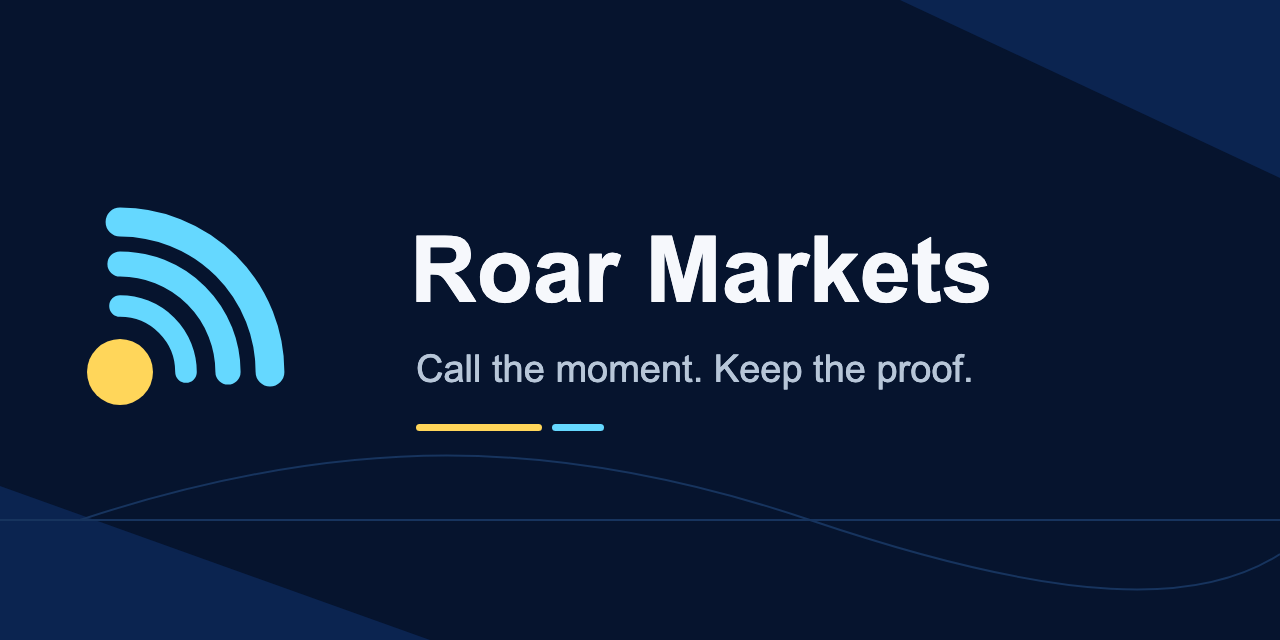
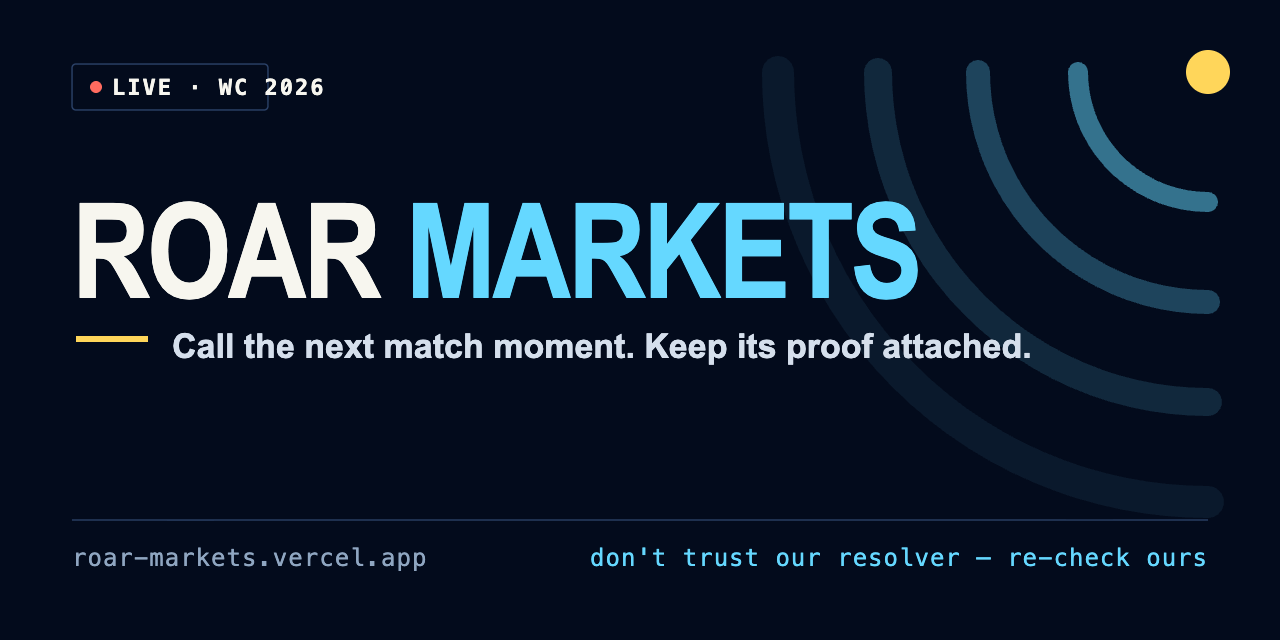
feat: site — head meta refresh (#030b1c), higher-detail social card, README hero

diff --git a/app/index.html b/app/index.html
@@ -3,24 +3,24 @@
   <head>
     <meta charset="UTF-8" />
     <meta name="viewport" content="width=device-width, initial-scale=1.0" />
-    <meta name="theme-color" content="#06142e" />
+    <meta name="theme-color" content="#030b1c" />
     <link rel="icon" type="image/svg+xml" href="/favicon.svg" />
-    <meta name="description" content="Roar Markets turns the next match moment into a fan call, then keeps the exact fixture and line attached to the result." />
+    <meta name="description" content="Roar Markets turns the next match moment into a fan call and keeps the result bound to the exact market, fixture and line — re-checkable in your browser, no wallet, no signup." />
     <meta property="og:type" content="website" />
-    <meta property="og:title" content="Roar Markets — call the moment, keep the proof" />
-    <meta property="og:description" content="Pick the next match moment and keep its fixture-and-line proof attached." />
+    <meta property="og:title" content="Roar Markets — call the next match moment. Keep its proof attached." />
+    <meta property="og:description" content="Quick yes-or-no fan calls whose result stays bound to the exact fixture and line. Don't trust our resolver — re-check ours." />
     <meta property="og:url" content="https://roar-markets.vercel.app/" />
     <meta property="og:image" content="https://roar-markets.vercel.app/roar-social-1280x640.png" />
     <meta property="og:image:type" content="image/png" />
     <meta property="og:image:width" content="1280" />
     <meta property="og:image:height" content="640" />
-    <meta property="og:image:alt" content="Roar Markets signal mark with the line: Call the moment. Keep the proof." />
+    <meta property="og:image:alt" content="Roar Markets signal mark with the line: Call the next match moment. Keep its proof attached." />
     <meta name="twitter:card" content="summary_large_image" />
-    <meta name="twitter:title" content="Roar Markets — call the moment, keep the proof" />
-    <meta name="twitter:description" content="Pick the next match moment and keep its fixture-and-line proof attached." />
+    <meta name="twitter:title" content="Roar Markets — call the next match moment. Keep its proof attached." />
+    <meta name="twitter:description" content="Quick yes-or-no fan calls whose result stays bound to the exact fixture and line. Don't trust our resolver — re-check ours." />
     <meta name="twitter:image" content="https://roar-markets.vercel.app/roar-social-1280x640.png" />
-    <meta name="twitter:image:alt" content="Roar Markets signal mark with the line: Call the moment. Keep the proof." />
-    <title>Roar Markets — call the moment, keep the proof</title>
+    <meta name="twitter:image:alt" content="Roar Markets signal mark with the line: Call the next match moment. Keep its proof attached." />
+    <title>Roar Markets — call the next match moment. Keep its proof attached.</title>
   </head>
   <body>
     <div id="root"></div>

diff --git a/README.md b/README.md
@@ -1,24 +1,30 @@
 <p align="center">
-  <img src="app/public/roar-mark.svg" width="88" height="88" alt="Roar Markets mark">
+  <img src="app/public/roar-mark.svg" width="96" height="96" alt="Roar Markets mark">
 </p>
 
 <h1 align="center">Roar Markets</h1>
 
 <p align="center">
   <strong>Call the next match moment. Keep its proof attached.</strong><br>
-  A fan-first World Cup prototype for quick yes-or-no picks whose result stays bound to the exact fixture and line.
+  A fan-first World Cup prototype for quick yes-or-no picks whose result stays bound to the exact
+  market, fixture and line — re-checkable in your browser, no wallet, no signup.
 </p>
 
 <p align="center">
-  <a href="https://roar-markets.vercel.app"><img src="https://img.shields.io/badge/app-live%20demo-65D8FF?style=flat-square" alt="Roar Markets live demo"></a>
-  <img src="https://img.shields.io/badge/network-Solana%20devnet-06142E?style=flat-square" alt="Solana devnet">
-  <img src="https://img.shields.io/badge/proof-fixture%20%2B%20line%20bound-3AD29F?style=flat-square" alt="Fixture and line bound proof">
-  <img src="https://img.shields.io/badge/tests-judge%20gate-FFD65A?style=flat-square" alt="Judge test gate">
-  <img src="https://img.shields.io/badge/license-Apache--2.0-64748B?style=flat-square" alt="Apache 2.0 license">
+  <em>Don't trust our resolver — re-check ours.</em>
 </p>
 
 <p align="center">
-  <strong><a href="https://roar-markets.vercel.app">Open the live Roar Markets match experience →</a></strong>
+  <a href="https://roar-markets.vercel.app"><img src="https://img.shields.io/badge/app-live%20demo-65D8FF?style=flat-square&labelColor=030B1C" alt="Roar Markets live demo"></a>
+  <img src="https://img.shields.io/badge/network-Solana%20devnet-2A4066?style=flat-square&labelColor=030B1C" alt="Solana devnet">
+  <img src="https://img.shields.io/badge/proof-market%20%C2%B7%20fixture%20%C2%B7%20line%20bound-3AD29F?style=flat-square&labelColor=030B1C" alt="Market, fixture and line bound proof">
+  <img src="https://img.shields.io/badge/gate-npm%20run%20judge--demo-FFD65A?style=flat-square&labelColor=030B1C" alt="Judge gate command">
+  <img src="https://img.shields.io/badge/license-Apache--2.0-8FA6C1?style=flat-square&labelColor=030B1C" alt="Apache 2.0 license">
+</p>
+
+<p align="center">
+  <strong><a href="https://roar-markets.vercel.app">Open the live match experience →</a></strong>
+  &nbsp;·&nbsp; <code>npm run judge-demo</code> runs the whole gate
 </p>
 
 ## The problem